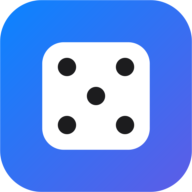
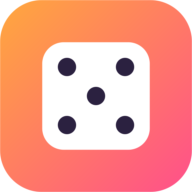
Switch to a bright, cheerful color palette

diff --git a/style.css b/style.css
@@ -1,48 +1,40 @@
-/* צבעי מערכת בסגנון Apple — בהיר כברירת מחדל, כהה לפי הגדרת המכשיר */
+/* פלטה בהירה ושמחה — רקע שמנת חמים, כתום-אלמוג להדגשה וטעמי פסטל */
 :root {
-  --bg: #f2f2f7;
+  --bg: #fff8ef;
+  --page: linear-gradient(160deg, #fff4e0 0%, #ffeef4 45%, #eaf6ff 100%);
   --surface: #ffffff;
-  --fill: rgba(120, 120, 128, 0.12);
-  --fill-pressed: rgba(120, 120, 128, 0.2);
-  --label: #000000;
-  --label-2: rgba(60, 60, 67, 0.6);
-  --label-3: rgba(60, 60, 67, 0.3);
-  --separator: rgba(60, 60, 67, 0.18);
-  --accent: #007aff;
-  --accent-tint: rgba(0, 122, 255, 0.12);
-  --danger: #ff3b30;
-  --bar: rgba(242, 242, 247, 0.72);
-  --scrim: rgba(0, 0, 0, 0.32);
-  --shadow: 0 1px 2px rgba(0, 0, 0, 0.04), 0 8px 24px rgba(0, 0, 0, 0.06);
-  --radius: 14px;
+  --fill: rgba(255, 122, 69, 0.1);
+  --fill-pressed: rgba(255, 122, 69, 0.18);
+  --label: #2b2140;
+  --label-2: rgba(43, 33, 64, 0.6);
+  --label-3: rgba(43, 33, 64, 0.3);
+  --separator: rgba(43, 33, 64, 0.1);
+  --accent: #ff6a3d;
+  --accent-2: #ff4f8b;
+  --accent-text: #e2531f;
+  --accent-tint: rgba(255, 106, 61, 0.16);
+  --danger: #e5383b;
+  --bar: rgba(255, 246, 236, 0.75);
+  --scrim: rgba(43, 33, 64, 0.28);
+  --shadow: 0 1px 2px rgba(255, 106, 61, 0.06), 0 10px 28px rgba(255, 106, 61, 0.1);
+  --radius: 18px;
   --ease-out: cubic-bezier(0.22, 1, 0.36, 1);
-  color-scheme: light dark;
-}
 
-@media (prefers-color-scheme: dark) {
-  :root {
-    --bg: #000000;
-    --surface: #1c1c1e;
-    --fill: rgba(118, 118, 128, 0.24);
-    --fill-pressed: rgba(118, 118, 128, 0.36);
-    --label: #ffffff;
-    --label-2: rgba(235, 235, 245, 0.6);
-    --label-3: rgba(235, 235, 245, 0.3);
-    --separator: rgba(84, 84, 88, 0.6);
-    --accent: #0a84ff;
-    --accent-tint: rgba(10, 132, 255, 0.18);
-    --danger: #ff453a;
-    --bar: rgba(0, 0, 0, 0.72);
-    --scrim: rgba(0, 0, 0, 0.5);
-    --shadow: none;
-  }
+  /* צבעי התגיות בהיסטוריה */
+  --sun: #fff1c2;   --sun-ink: #a86a00;
+  --mint: #d6f5e6;  --mint-ink: #1d8a57;
+  --sky: #dbeeff;   --sky-ink: #1f6fc4;
+  --lilac: #ece3ff; --lilac-ink: #6b4bc9;
+  --peach: #ffe2d6; --peach-ink: #c4532a;
+  color-scheme: light;
 }
 
 * { box-sizing: border-box; }
 
+html { background: var(--bg) var(--page) fixed; }
+
 html, body {
   margin: 0;
-  background: var(--bg);
   color: var(--label);
   font: 100%/1.45 -apple-system, BlinkMacSystemFont, system-ui, "Segoe UI", Arial, sans-serif;
   -webkit-font-smoothing: antialiased;
@@ -92,14 +84,19 @@ main { max-width: 640px; margin: 8px auto 0; }
   padding: 8px 16px;
   min-height: 36px;
   background: var(--fill);
-  color: var(--accent);
+  color: var(--accent-text);
   font-weight: 500;
   cursor: pointer;
   transition: transform 100ms ease-out, background-color 100ms ease-out, opacity 100ms ease-out;
 }
 .btn:active { transform: scale(0.97); background: var(--fill-pressed); }
-.btn.primary { background: var(--accent); color: #fff; font-weight: 600; }
-.btn.primary:active { opacity: 0.8; background: var(--accent); }
+.btn.primary {
+  background: linear-gradient(135deg, var(--accent), var(--accent-2));
+  color: #fff;
+  font-weight: 600;
+  box-shadow: 0 4px 14px rgba(255, 90, 90, 0.3);
+}
+.btn.primary:active { opacity: 0.85; background: linear-gradient(135deg, var(--accent), var(--accent-2)); }
 .btn.ghost { background: transparent; padding: 8px 10px; }
 .btn.ghost:active { background: var(--fill); }
 .btn.danger { color: var(--danger); }
@@ -154,7 +151,12 @@ main { max-width: 640px; margin: 8px auto 0; }
   background: var(--fill);
   color: var(--label-2);
 }
-.chip:first-child { background: var(--accent-tint); color: var(--accent); }
+.chip:nth-child(5n + 1) { background: var(--peach); color: var(--peach-ink); }
+.chip:nth-child(5n + 2) { background: var(--sun); color: var(--sun-ink); }
+.chip:nth-child(5n + 3) { background: var(--mint); color: var(--mint-ink); }
+.chip:nth-child(5n + 4) { background: var(--sky); color: var(--sky-ink); }
+.chip:nth-child(5n + 5) { background: var(--lilac); color: var(--lilac-ink); }
+.chip:first-child { font-weight: 700; box-shadow: inset 0 0 0 1.5px currentColor; }
 
 .card-actions {
   display: flex;
@@ -174,7 +176,7 @@ dialog {
   padding: 20px;
   background: var(--surface);
   color: var(--label);
-  box-shadow: 0 20px 60px rgba(0, 0, 0, 0.25);
+  box-shadow: 0 20px 60px rgba(120, 50, 80, 0.22);
 }
 dialog::backdrop { background: var(--scrim); }
 dialog[open] { animation: sheet-in 320ms var(--ease-out); }
@@ -229,7 +231,7 @@ legend { color: var(--label-2); font-size: 0.8125rem; font-weight: 500; padding:
 }
 .result-box { display: grid; grid-template-columns: 1fr 1fr; gap: 10px; margin-bottom: 14px; }
 .result-cell {
-  background: var(--bg);
+  background: var(--sun);
   border-radius: 16px;
   padding: 18px 8px 14px;
   display: grid;
@@ -242,8 +244,10 @@ legend { color: var(--label-2); font-size: 0.8125rem; font-weight: 500; padding:
   line-height: 1.05;
   letter-spacing: -0.03em;
   font-variant-numeric: tabular-nums;
-  color: var(--label);
+  color: var(--sun-ink);
 }
+.result-cell + .result-cell { background: #ffe3ee; }
+.result-cell + .result-cell .num { color: #d6336c; }
 .result-code {
   margin: 0 0 20px;
   color: var(--label-2);
@@ -255,7 +259,7 @@ legend { color: var(--label-2); font-size: 0.8125rem; font-weight: 500; padding:
 .result .actions { justify-content: center; }
 .result .actions .btn { flex: 1; min-height: 44px; }
 
-.rolling .num { color: var(--label-3); }
+.rolling .num { opacity: 0.4; }
 .landed .num { animation: land 360ms var(--ease-out); }
 @keyframes land { from { opacity: 0.4; transform: scale(0.92); } }
 

diff --git a/index.html b/index.html
@@ -3,8 +3,7 @@
 <head>
   <meta charset="utf-8">
   <meta name="viewport" content="width=device-width, initial-scale=1, viewport-fit=cover">
-  <meta name="theme-color" content="#f2f2f7" media="(prefers-color-scheme: light)">
-  <meta name="theme-color" content="#000000" media="(prefers-color-scheme: dark)">
+  <meta name="theme-color" content="#fff4e0">
   <meta name="description" content="הגרלת פרק רנדומלי מתוך הסדרות שלך">
   <meta name="apple-mobile-web-app-capable" content="yes">
   <meta name="apple-mobile-web-app-status-bar-style" content="default">
@@ -17,7 +16,7 @@
 </head>
 <body>
   <header class="top">
-    <h1>איזה פרק?</h1>
+    <h1>🎲 איזה פרק?</h1>
     <button id="addBtn" class="btn primary">+ סדרה</button>
   </header>
 

diff --git a/sw.js b/sw.js
@@ -1,5 +1,5 @@
 // להעלות את הגרסה בכל שינוי בקבצים כדי לרענן את המטמון
-const CACHE = 'choosepisode-v3';
+const CACHE = 'choosepisode-v4';
 const ASSETS = [
   './',
   'index.html',
